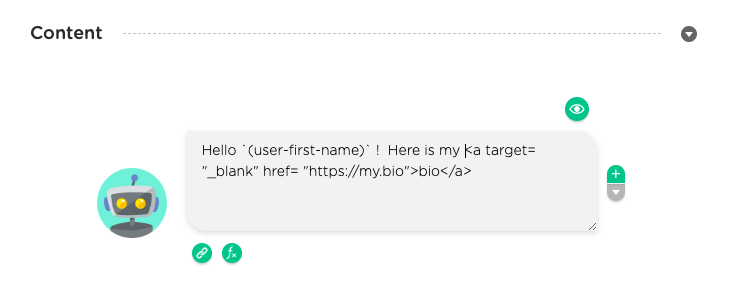
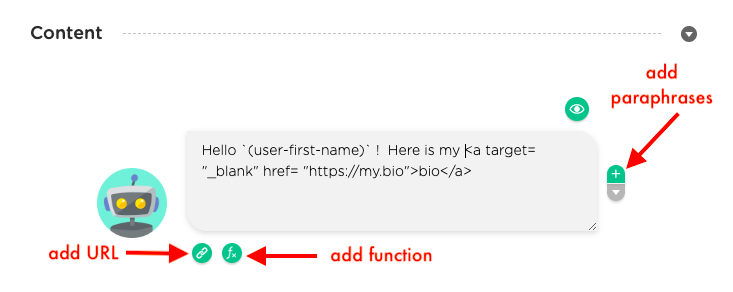
Added images and annotations.

diff --git a/docs/chatbot-design-tips.md b/docs/chatbot-design-tips.md
@@ -110,7 +110,11 @@ To make a chatbot sound more natural, define paraphrases for a chatbot
 message or a request. For example, if your chatbot says hello to your
 audience everyday, you want your chatbot to say something differnt to
 avoid repeatitiveness. This can be easily done by adding paraphrases
-to the hello message.
+to the hello message. Below indicates the use of the green "+" to add
+paraphrases to a chatbot message:
+
+<p align="center"><img src="/img/add-paraphrases-remark.png" alt="add a
+topic buttons" width="550"/></p>
 
 Similarly, a chatbot may need to repeat a question/request if a user
 does not comply to it. In such a case, you want to add paraphrases of
@@ -120,7 +124,7 @@ should give more information, such as the rationale of the
 request. When repeating this request, the chatbot however should not
 repeat everything to sound robotic.
 
-Below is an example showing the initial message of a chatbot request. Since this message is long, it would not be used by the chatbot to repeat the question:
+Below is an example showing the initial phrase of a chatbot request. Since this message is long, it would not be used by the chatbot to repeat the question:
 
 <p align="center"><img src="/img/initial-msg.png" alt="Initial Message" width="650"/></p>
 

diff --git a/docs/design.md b/docs/design.md
@@ -139,10 +139,11 @@ personalize the chatbot message.
 
 * **Add a link** Use the green `link` button to add a URL (`bio`).
 
-* **Add a paraphrase** Use the gree `+` button on the right of the
-    text bubble to add paraphrases of the message. The paraphrases
-    will be output randomly during a chat. See [best
-    practices](/chatbot-design-tips) for good uses of paraphrases.
+* **Add a paraphrase** Use the green `+` button on the right of the
+    text bubble to add paraphrases of the message (see the screenshot
+    below). The paraphrases will be selected by your chatbot randomly
+    to send during a chat. See [best practices](/chatbot-design-tips)
+    for good uses of paraphrases.
 
 <p align="center"><img src="/img/design-plain-remark.png" alt="add a
 topic buttons" width="550"/></p>
